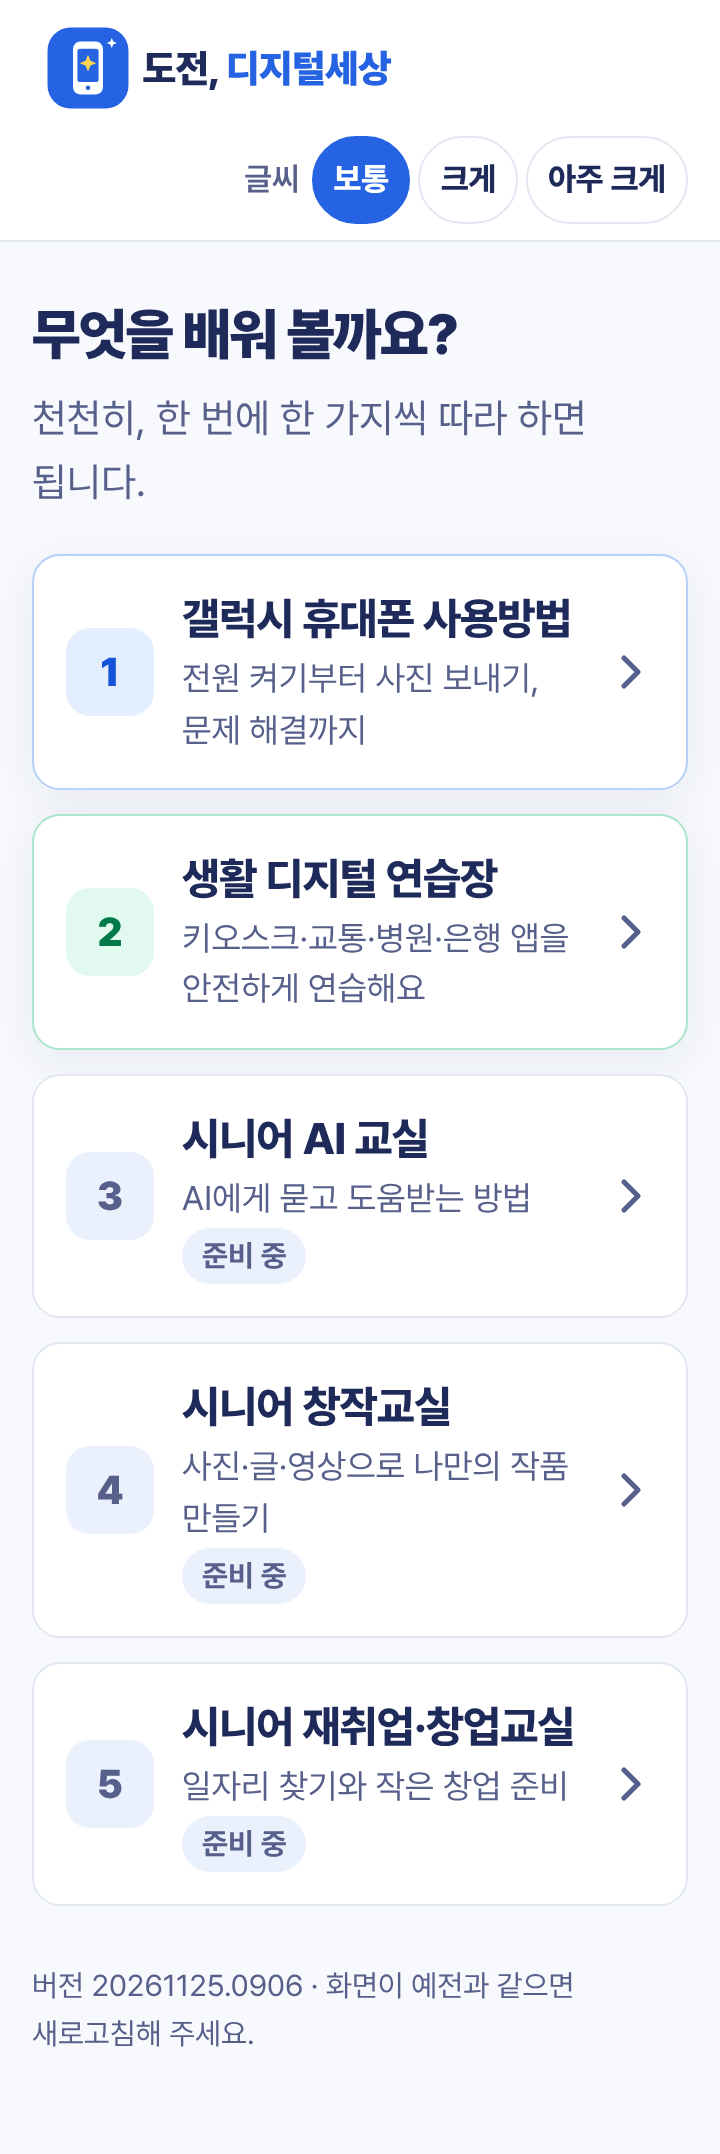
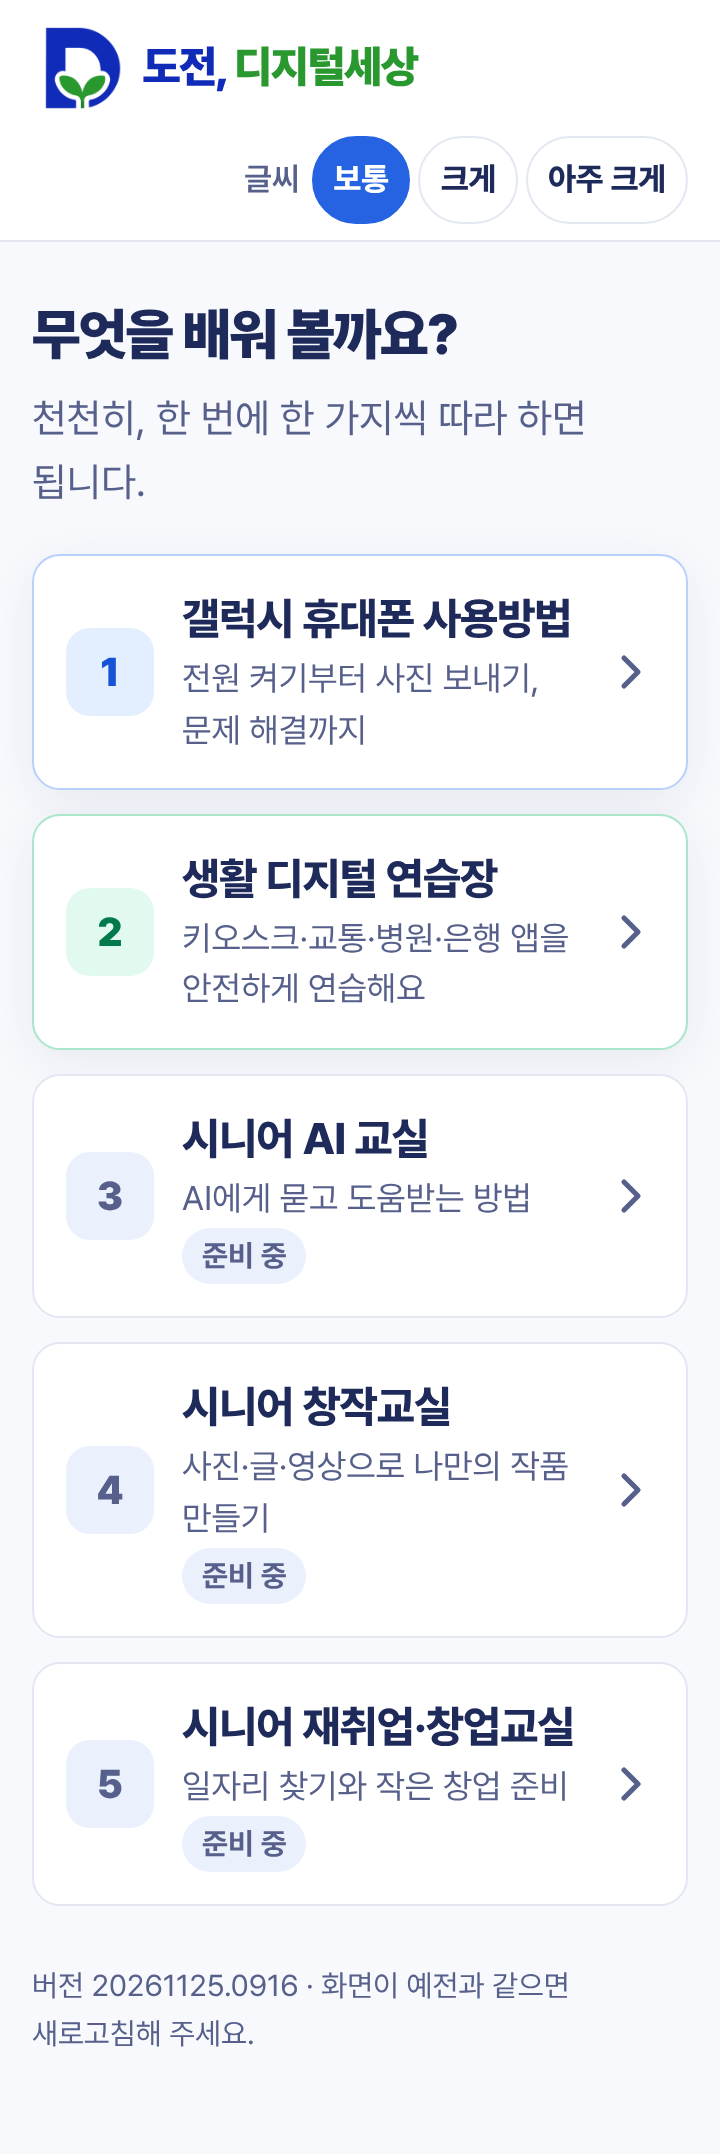
‘도전, 디지털세상’ 로고(파란 D·초록 새싹) 적용: 머리줄·파비콘·홈 화면 아이콘
- 원본 보관(images/brand), 투명 배경 머리줄 로고, 아이콘 크기별 PNG, 매니페스트
- 로고 이름 글자: 파랑 ‘도전,’ + 초록 ‘디지털세상’, 다크 모드에서는 로고 뒤 흰 바탕

Claude-Session: https://claude.ai/code/session_01Q3BcEgi969WHnWAarB2Rma

diff --git a/assets/app.js b/assets/app.js
@@ -12,15 +12,14 @@
  *
  * 진행 상황과 글씨 크기는 이 기기의 localStorage 에만 저장한다(서버로 보내지 않음).
  */
-import { CATEGORIES } from '../data/categories.js?v=20261125.0906';
-import { CHAPTERS, GROUPS, findLesson as findGalaxyLesson, allLessons } from '../data/galaxy/index.js?v=20261125.0906';
-import * as DIGITAL from '../data/digital/index.js?v=20261125.0906';
-import { BASE } from '../data/galaxy/helpers.js?v=20261125.0906';
-import { renderScreen } from './screens.js?v=20261125.0906';
-import { appInfo, appIconStandalone } from './apps.js?v=20261125.0906';
-import { speechText, stepWords, pickVoice, koreanVoices, voiceLabel, SPEECH } from './speech.js?v=20261125.0906';
-import { logoSvg } from './logo.js?v=20261125.0906';
-import { VERSION } from './version.js?v=20261125.0906';
+import { CATEGORIES } from '../data/categories.js?v=20261125.0916';
+import { CHAPTERS, GROUPS, findLesson as findGalaxyLesson, allLessons } from '../data/galaxy/index.js?v=20261125.0916';
+import * as DIGITAL from '../data/digital/index.js?v=20261125.0916';
+import { BASE } from '../data/galaxy/helpers.js?v=20261125.0916';
+import { renderScreen } from './screens.js?v=20261125.0916';
+import { appInfo, appIconStandalone } from './apps.js?v=20261125.0916';
+import { speechText, stepWords, pickVoice, koreanVoices, voiceLabel, SPEECH } from './speech.js?v=20261125.0916';
+import { VERSION } from './version.js?v=20261125.0916';
 
 const STORE_KEY = 'dojeon365.galaxy.v1';
 // 목차 구분별 분야 색(디자인 시스템): 기초 파랑, 생활 초록, 응용 보라, 고급 및 문제 해결 남색
@@ -73,7 +72,7 @@ function fontControl() {
 
 function topbar({ back, backLabel = '뒤로', title = '' } = {}) {
   return `<header class="topbar">
-    ${back ? `<a class="topbar__back" href="${back}">${ICON.prev}<span>${esc(backLabel)}</span></a>` : `<a class="topbar__brand" href="#/" aria-label="도전, 디지털세상 — 홈으로">${logoSvg({ height: 44 })}</a>`}
+    ${back ? `<a class="topbar__back" href="${back}">${ICON.prev}<span>${esc(backLabel)}</span></a>` : `<a class="topbar__brand" href="#/" aria-label="도전, 디지털세상 — 홈으로"><img class="logo-mark" src="assets/logo-mark.png" alt="" width="45" height="48"><span class="logo-text" aria-hidden="true">도전, <b>디지털세상</b></span></a>`}
     ${title ? `<span class="topbar__title">${esc(title)}</span>` : ''}
     ${fontControl()}
   </header>`;

diff --git a/index.html b/index.html
@@ -4,14 +4,16 @@
 <meta charset="utf-8">
 <meta name="viewport" content="width=device-width, initial-scale=1, viewport-fit=cover">
 <meta http-equiv="Content-Security-Policy" content="default-src 'self'; img-src 'self' data:; style-src 'self' 'unsafe-inline'; script-src 'self'; connect-src 'none'; object-src 'none'; base-uri 'self'">
-<meta name="theme-color" content="#f7f9fd">
+<meta name="theme-color" content="#ffffff">
 <meta name="description" content="갤럭시를 처음 쓰는 어르신이 혼자서도 한 단계씩 따라 하는 휴대폰 사용 수업">
 <title>도전, 디지털세상 | 편한자판 시니어 교육</title>
-<link rel="icon" href="assets/icon.svg" type="image/svg+xml">
+<link rel="icon" href="assets/favicon-32.png" sizes="32x32" type="image/png">
+<link rel="icon" href="assets/favicon-48.png" sizes="48x48" type="image/png">
+<link rel="apple-touch-icon" href="assets/apple-touch-icon.png">
 <link rel="manifest" href="site.webmanifest">
-<link rel="stylesheet" href="assets/fonts/pretendard/pretendardvariable-dynamic-subset.css?v=20261125.0906">
-<link rel="stylesheet" href="assets/app.css?v=20261125.0906">
-<script type="module" src="assets/app.js?v=20261125.0906"></script>
+<link rel="stylesheet" href="assets/fonts/pretendard/pretendardvariable-dynamic-subset.css?v=20261125.0916">
+<link rel="stylesheet" href="assets/app.css?v=20261125.0916">
+<script type="module" src="assets/app.js?v=20261125.0916"></script>
 </head>
 <body>
 <a class="sr-only" href="#main">본문 바로가기</a>

diff --git a/assets/app.css b/assets/app.css
@@ -295,8 +295,15 @@ svg { display: block; }
 .notice { margin: 0 0 24px; padding: 14px 16px; border-radius: var(--radius); background: var(--surface-2); border: 1px solid var(--line); font-size: 1.125rem; }
 .lesson-row--soon { cursor: default; }
 .lesson-row--soon:hover { transform: none; border-color: var(--line); }
-.topbar__brand .logo { display: block; height: 2.75rem; width: auto; max-width: 70vw; }
+
+.topbar__brand { gap: 10px; }
+.logo-mark { display: block; height: 2.6rem; width: auto; flex: none; }
+.logo-text { font-size: 1.375rem; font-weight: 900; letter-spacing: -0.03em; color: #102BB7; white-space: nowrap; }
+.logo-text b { font-weight: 900; color: #29982F; }
 @media (prefers-color-scheme: dark) {
-  :root:not([data-theme="light"]) .logo__a { fill: #E7EBF7; }
-  :root:not([data-theme="light"]) .logo__b { fill: #7AA5FF; }
+  :root:not([data-theme="light"]) .logo-text { color: #8FA4FF; }
+  :root:not([data-theme="light"]) .logo-text b { color: #6BD475; }
+}
+@media (prefers-color-scheme: dark) {
+  :root:not([data-theme="light"]) .logo-mark { background: #ffffff; border-radius: 10px; padding: 3px 4px; box-sizing: content-box; height: 2.3rem; }
 }

diff --git a/data/galaxy/ch14-22.js b/data/galaxy/ch14-22.js
@@ -1,5 +1,5 @@
 /** [응용] 14~18, [고급 및 문제 해결] 19~22 */
-import { lesson, app, tap, menu, path, toggle, self, look, swipe, hold, back, goHome, openQuick, M, SRC, MENUS, SIDE, HOME, QUICK, PRACTICE_ONLY } from './helpers.js?v=20261125.0906';
+import { lesson, app, tap, menu, path, toggle, self, look, swipe, hold, back, goHome, openQuick, M, SRC, MENUS, SIDE, HOME, QUICK, PRACTICE_ONLY } from './helpers.js?v=20261125.0916';
 
 const WALLET = { kind: 'app', title: '월렛', back: false, actions: ['추가'], hero: '결제 카드 ●●●● 1234', heroName: '결제 카드', heroColor: '#283593', lines: ['교통 카드 · 멤버십 · 모바일 신분증'] };
 const WALLET_ADD = { kind: 'dialog', style: 'sheet', title: '추가', buttons: ['결제 카드', '교통 카드', '모바일 신분증', '멤버십', '티켓·쿠폰'] };

diff --git a/data/digital/index.js b/data/digital/index.js
@@ -7,9 +7,9 @@
  * - 세부 수업의 카드(cards)는 갤럭시 수업과 같은 형식이다(ch01-07.js, ch08-14.js, ch15-20.js). cards 가 없으면 ‘준비 중’으로 보인다.
  */
 
-import { CHAPTERS_1 } from './ch01-07.js?v=20261125.0906';
-import { CHAPTERS_2 } from './ch08-14.js?v=20261125.0906';
-import { CHAPTERS_3 } from './ch15-20.js?v=20261125.0906';
+import { CHAPTERS_1 } from './ch01-07.js?v=20261125.0916';
+import { CHAPTERS_2 } from './ch08-14.js?v=20261125.0916';
+import { CHAPTERS_3 } from './ch15-20.js?v=20261125.0916';
 
 export const COURSE = {
   id: 'digital',

diff --git a/data/digital/ch01-07.js b/data/digital/ch01-07.js
@@ -1,5 +1,5 @@
 /** [가게와 식당] 01~03, [교통과 이동] 04~07 */
-import { L, T, S, LK, SRC, app, list, tiles, pad, sheet, pop, kb, seats, swipe } from './kit.js?v=20261125.0906';
+import { L, T, S, LK, SRC, app, list, tiles, pad, sheet, pop, kb, seats, swipe } from './kit.js?v=20261125.0916';
 
 /* ---------- 01 키오스크 ---------- */
 const K_HOME = app('주문하기', { hero: '어서 오세요! 화면을 눌러 주문하세요', heroColor: '#2563E2', buttons: ['매장에서 먹기', '포장하기'] });

diff --git a/data/galaxy/ch07-13.js b/data/galaxy/ch07-13.js
@@ -1,5 +1,5 @@
 /** [생활] 07~13 */
-import { lesson, app, tap, menu, path, toggle, self, look, swipe, hold, back, goHome, openQuick, openNoti, M, SRC, MENUS, SIDE, HOME, APPS, QUICK, NOTI, PRACTICE_ONLY } from './helpers.js?v=20261125.0906';
+import { lesson, app, tap, menu, path, toggle, self, look, swipe, hold, back, goHome, openQuick, openNoti, M, SRC, MENUS, SIDE, HOME, APPS, QUICK, NOTI, PRACTICE_ONLY } from './helpers.js?v=20261125.0916';
 
 const Q = (on) => ({ ...QUICK, on });
 

diff --git a/data/galaxy/index.js b/data/galaxy/index.js
@@ -1,7 +1,7 @@
 /** 갤럭시 휴대폰 사용방법: 22개 목차 */
-import { BASIC } from './ch01-06.js?v=20261125.0906';
-import { LIFE } from './ch07-13.js?v=20261125.0906';
-import { APPLY, ADV } from './ch14-22.js?v=20261125.0906';
+import { BASIC } from './ch01-06.js?v=20261125.0916';
+import { LIFE } from './ch07-13.js?v=20261125.0916';
+import { APPLY, ADV } from './ch14-22.js?v=20261125.0916';
 
 export const GROUPS = [
   { id: 'basic', title: '기초' },

diff --git a/data/digital/ch15-20.js b/data/digital/ch15-20.js
@@ -1,5 +1,5 @@
 /** [관공서와 생활 서비스] 15~17, [쇼핑과 여가] 18~20 */
-import { L, T, S, LK, SRC, app, list, tiles, pad, sheet, pop, kb, seats } from './kit.js?v=20261125.0906';
+import { L, T, S, LK, SRC, app, list, tiles, pad, sheet, pop, kb, seats } from './kit.js?v=20261125.0916';
 
 const MONEY = '실제로 돈이 오가는 일이에요. 먼저 연습 화면으로 끝까지 해 보세요. 연습 화면에서는 돈이 나가지 않아요.';
 

diff --git a/data/galaxy/ch01-06.js b/data/galaxy/ch01-06.js
@@ -1,5 +1,5 @@
 /** [기초] 01~06 */
-import { lesson, app, tap, menu, path, toggle, self, look, swipe, hold, back, goHome, M, SRC, MENUS, SIDE, HOME, APPS, PHONE_TABS, PRACTICE_ONLY } from './helpers.js?v=20261125.0906';
+import { lesson, app, tap, menu, path, toggle, self, look, swipe, hold, back, goHome, M, SRC, MENUS, SIDE, HOME, APPS, PHONE_TABS, PRACTICE_ONLY } from './helpers.js?v=20261125.0916';
 
 const POWER = { kind: 'dialog', style: 'power' };
 

diff --git a/data/digital/ch08-14.js b/data/digital/ch08-14.js
@@ -1,5 +1,5 @@
 /** [병원과 건강] 08~10, [은행과 돈] 11~14 */
-import { L, T, S, LK, SRC, app, list, tiles, pad, sheet, pop, kb } from './kit.js?v=20261125.0906';
+import { L, T, S, LK, SRC, app, list, tiles, pad, sheet, pop, kb } from './kit.js?v=20261125.0916';
 
 const MONEY = '실제로 돈이 오가는 일이에요. 먼저 연습 화면으로 끝까지 해 보세요. 연습 화면에서는 돈이 나가지 않아요.';
 

diff --git a/assets/screens.js b/assets/screens.js
@@ -9,7 +9,7 @@
  * - 실제 갤럭시 사진으로 바꿀 때는 card.photo 를 넣으면 이 그림 대신 사진이 쓰인다(app.js 참고).
  */
 
-import { appIconSvg, appInfo, settingIconSvg } from './apps.js?v=20261125.0906';
+import { appIconSvg, appInfo, settingIconSvg } from './apps.js?v=20261125.0916';
 
 const W = 360;
 const H = 640;
